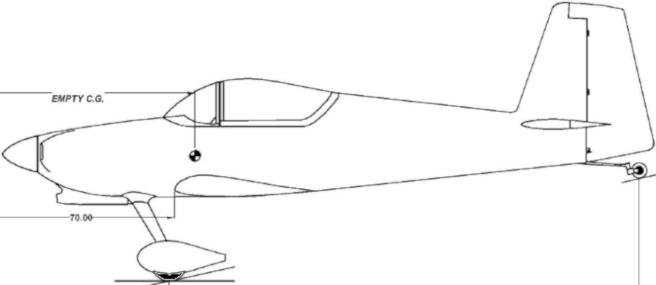
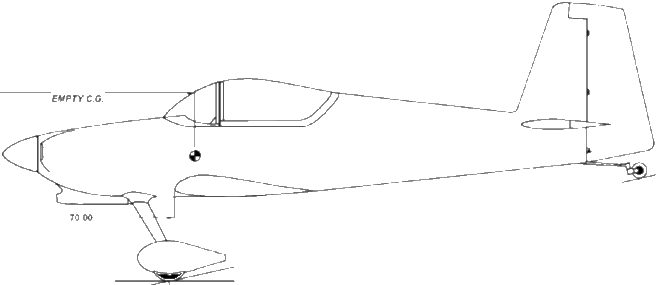
Made ac images transparent

diff --git a/WeightBalance/MainPage.xaml b/WeightBalance/MainPage.xaml
@@ -47,8 +47,7 @@
             <sf:SfListView.ItemTemplate>
                 <DataTemplate>
                     <Border>
-                        <Grid x:Name="grid" 
-                              Margin="2"> 
+                        <Grid x:Name="grid" Margin="2"> 
                             <Grid.RowDefinitions>
                                 <RowDefinition Height="*"/>
                             </Grid.RowDefinitions>

diff --git a/WeightBalance/Converters/IndexToColorConverter.cs b/WeightBalance/Converters/IndexToColorConverter.cs
@@ -6,9 +6,12 @@ namespace WeightBalance.Converters;
 
 public class IndexToColorConverter : IValueConverter
 {
-    public object? Convert(object value, Type targetType, object parameter, CultureInfo culture)
+    public object? Convert(object? value, Type targetType, object? parameter, CultureInfo culture)
     {
-        var listview = parameter as SfListView;
+        if (value == null) return null;
+        if (parameter is not SfListView listview) return null;
+        if (listview.DataSource == null) return null;
+        
         var index = listview.DataSource.DisplayItems.IndexOf(value);
         Color CornBlue = Colors.CornflowerBlue;
         Color Blue = Colors.LightBlue;
@@ -19,7 +22,7 @@ public class IndexToColorConverter : IValueConverter
         }
         else
         {
-            int row = index;
+            int? row = index;
             if (row % 2 == 0)
             {
                 return index % 2 == 0 ? CornBlue : Blue;
@@ -31,7 +34,7 @@ public class IndexToColorConverter : IValueConverter
         }
     }
 
-    public object? ConvertBack(object value, Type targetType, object parameter, CultureInfo culture)
+    public object? ConvertBack(object? value, Type targetType, object? parameter, CultureInfo culture)
     {
         throw new NotImplementedException();
     }
